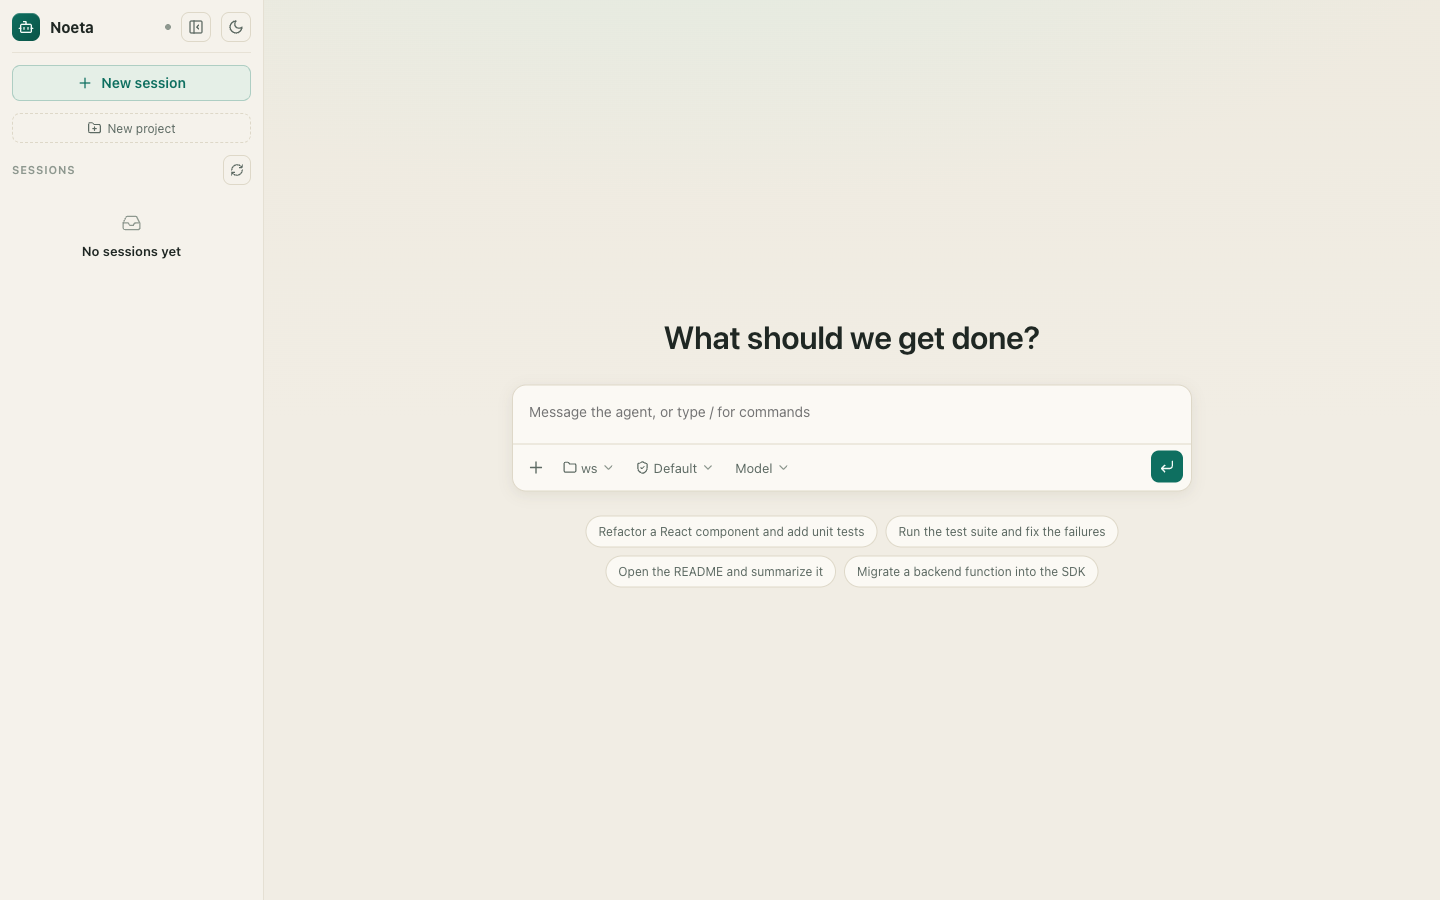
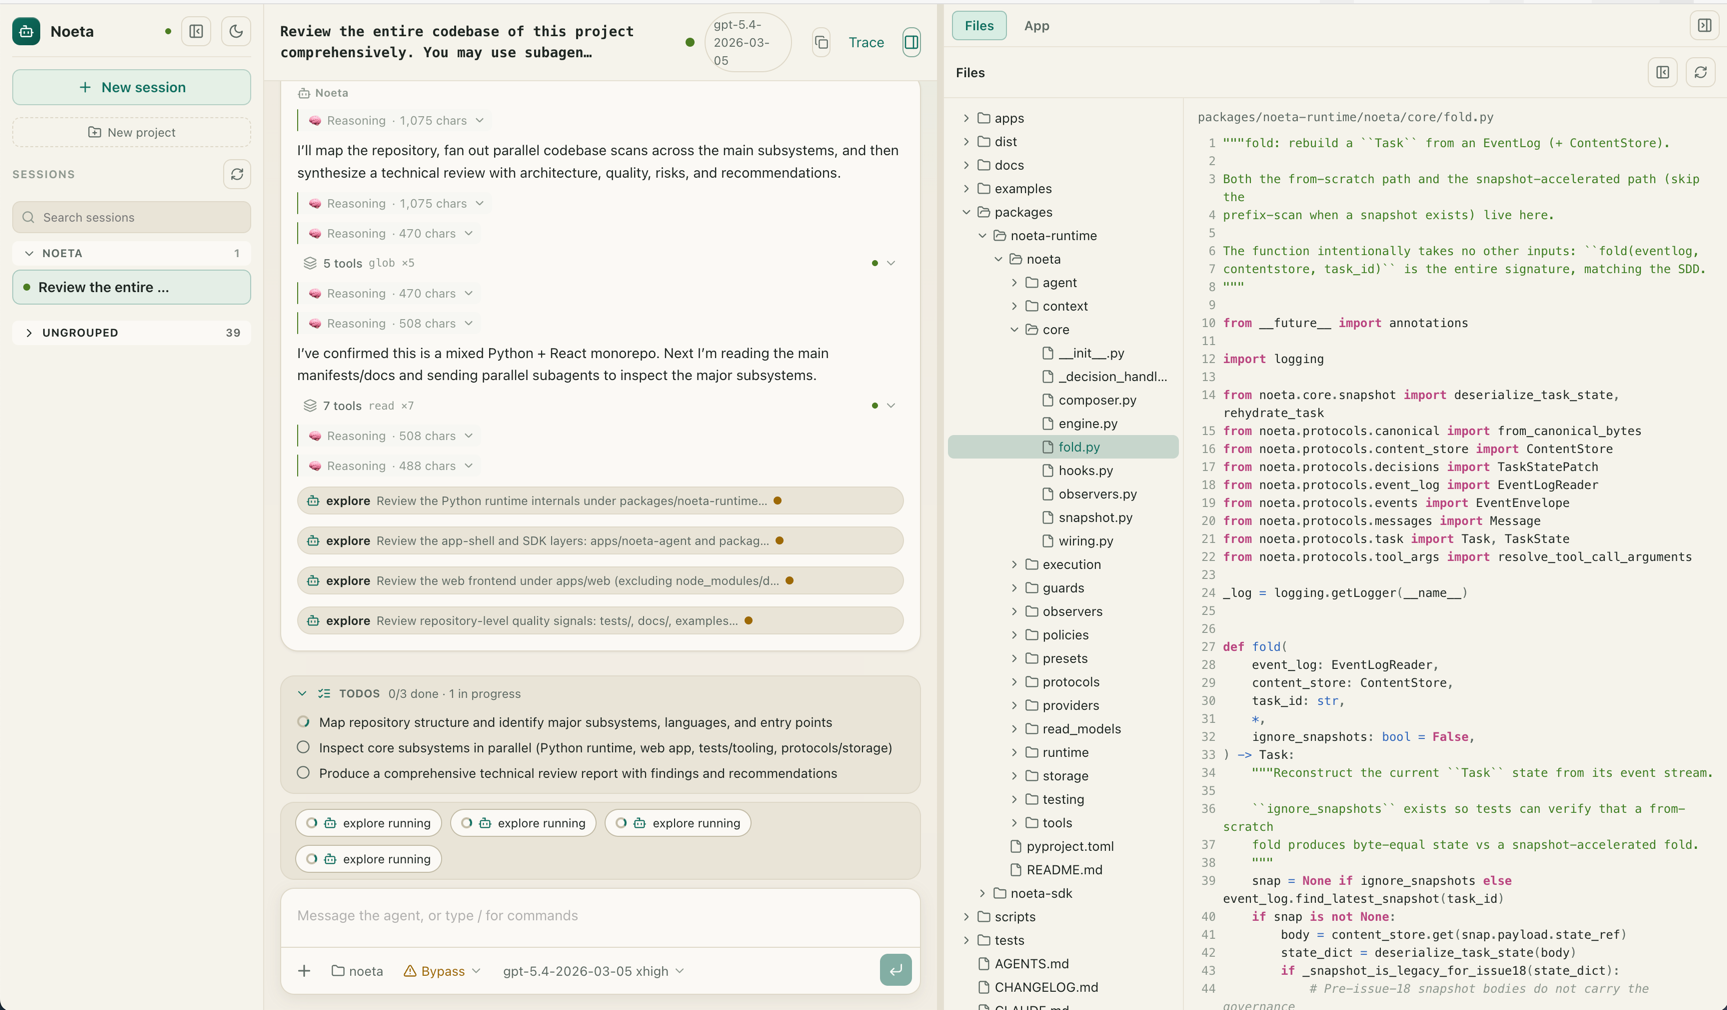
docs: refresh README screenshots — new web-app shot + trace view

diff --git a/README.md b/README.md
@@ -21,6 +21,12 @@ the process.
   <em>The bundled coding-agent web app, served by <code>python -m noeta.agent</code>.</em>
 </p>
 
+<p align="center">
+  <img src="docs/assets/trace.png" alt="Noeta per-task trace view" width="820">
+  <br>
+  <em>The per-task trace view — every event, LLM turn, and token/cache stat, straight from the EventLog.</em>
+</p>
+
 ## Why Noeta
 
 - **Durable by construction** — every state change is an appended event; task

diff --git a/README.zh-CN.md b/README.zh-CN.md
@@ -19,6 +19,12 @@ Noeta 负责托管、记录并调度 agent 的执行——但不规定 agent 该
   <em>由 <code>python -m noeta.agent</code> 启动的内置 coding-agent web 应用。</em>
 </p>
 
+<p align="center">
+  <img src="docs/assets/trace.png" alt="Noeta 任务级 trace 视图" width="820">
+  <br>
+  <em>任务级 trace 视图——每个事件、每轮 LLM 调用、token/cache 统计，全部直接来自 EventLog。</em>
+</p>
+
 ## 为什么用 Noeta
 
 - **天生持久** —— 每一次状态变化都是一条追加事件；任务状态始终由日志确定性地